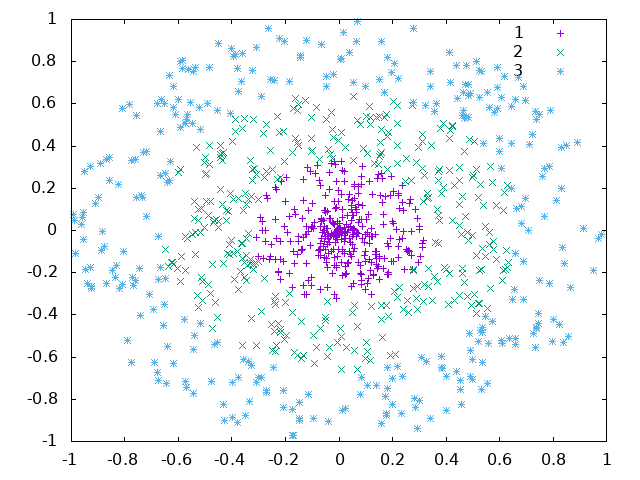
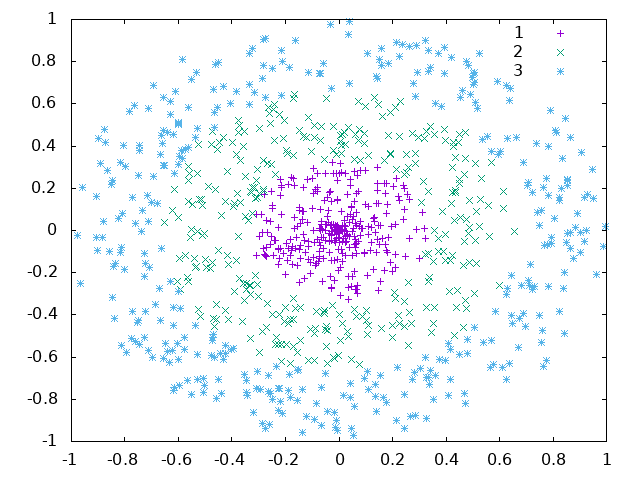
Change CMake for WRL compatibility

diff --git a/NeuralNetworkC++/src/main.cpp b/NeuralNetworkC++/src/main.cpp
@@ -21,9 +21,9 @@ int main(int argc, char* argv[])
 	int numberOfClasses  = 3;
 	int numberOfNeurons  = 64;
 	double lambda = 1.0 ; 
-	double threshold = 0.0000001;
+	double threshold = 0.0001;
 	int total = 1000;
-	double batchProportion = 0.7;
+	double batchProportion = 0.5;
 	std::string style = "radial";
 
 	po::options_description desc("Options");
@@ -70,7 +70,10 @@ int main(int argc, char* argv[])
 	std::cout.precision(17);
 	std::cout << "Number of classes: " << numberOfClasses << '\n';
 	std::cout << "Number of neurons: " << numberOfNeurons << '\n';
-	
+	std::cout << "Lambda: " << lambda << '\n';
+	std::cout << "Threshold: " << threshold << '\n';
+	std::cout << "Total Size: " << total << '\n';
+	std::cout << "Batch Proportion: " << batchProportion << '\n';
 
 	//Start Logic
 	// Initialize the random generator

diff --git a/NeuralNetworkC++/src/graph.cpp b/NeuralNetworkC++/src/graph.cpp
@@ -54,7 +54,7 @@ void graphFunction(mat W1, mat W2){
 	for (int classi = 0; classi < numClasses ; classi++){
 		std::vector<std::pair<double, double>> graphClass;
 		for (int i = 0; i < total ; i++){
-			if(Y(i,classi) > 0.9){
+			if(Y(i,classi) > 0.8){
 				graphClass.push_back(std::make_pair(X(i,0), X(i,1)));
 			}
 		}
